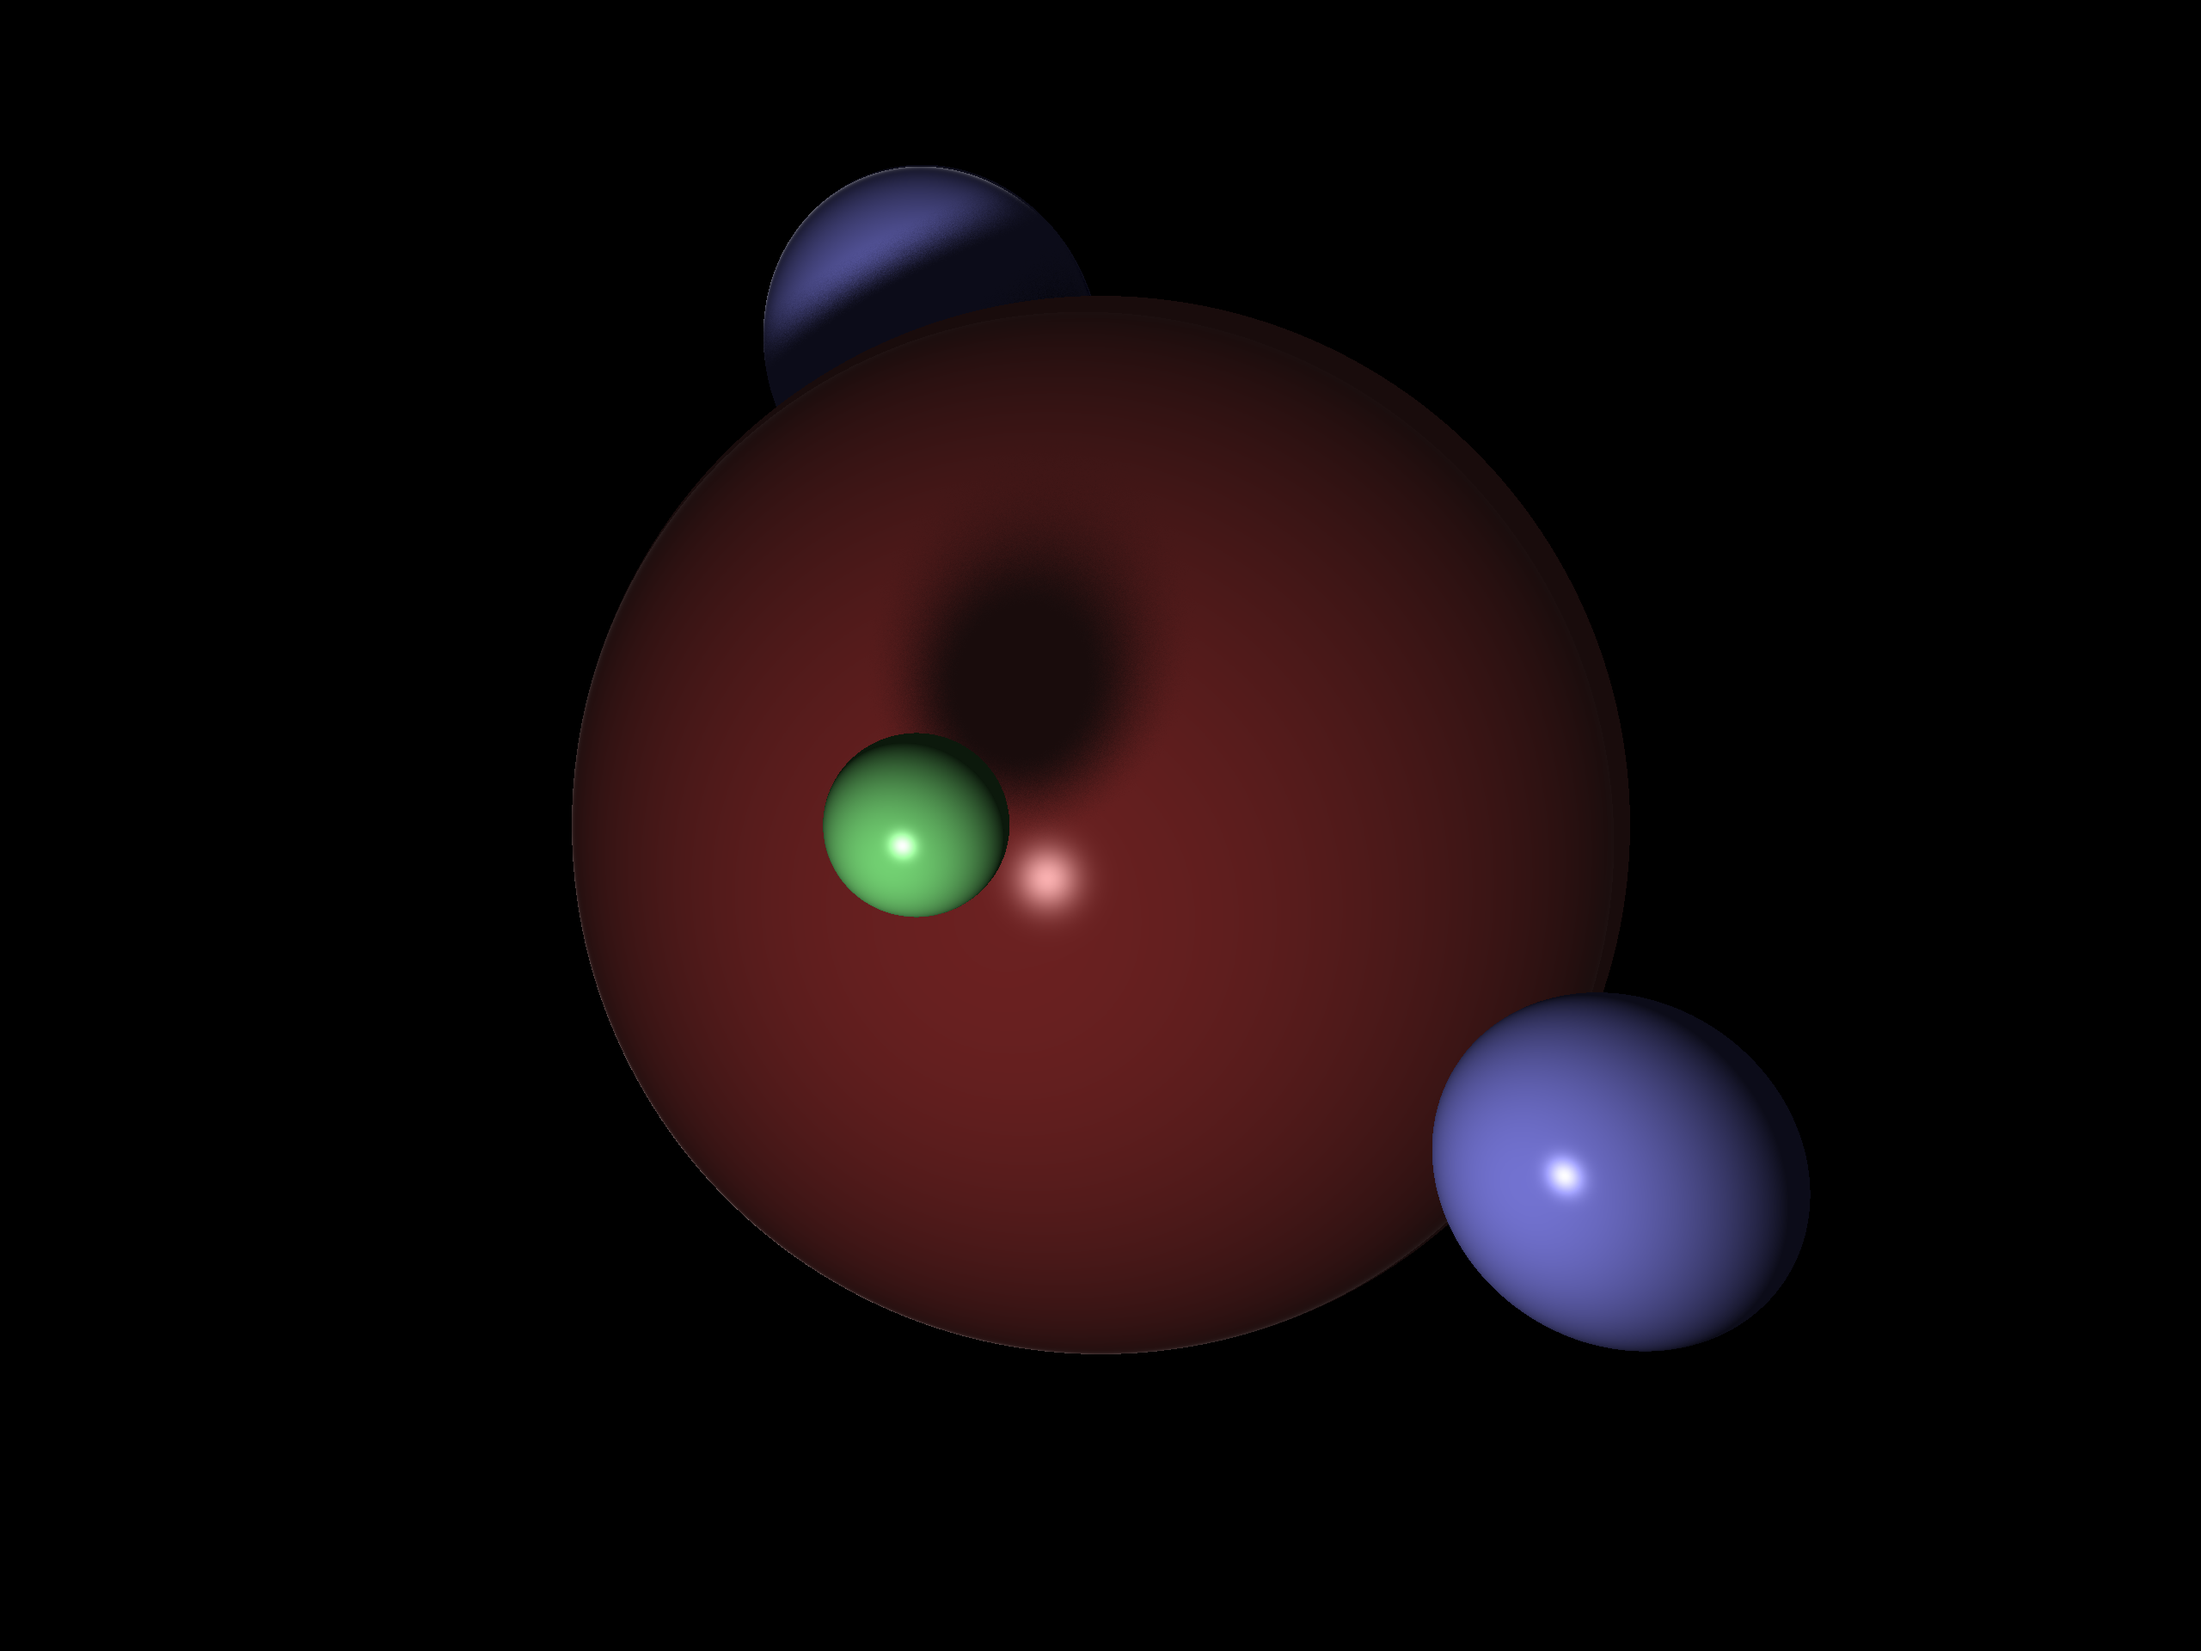
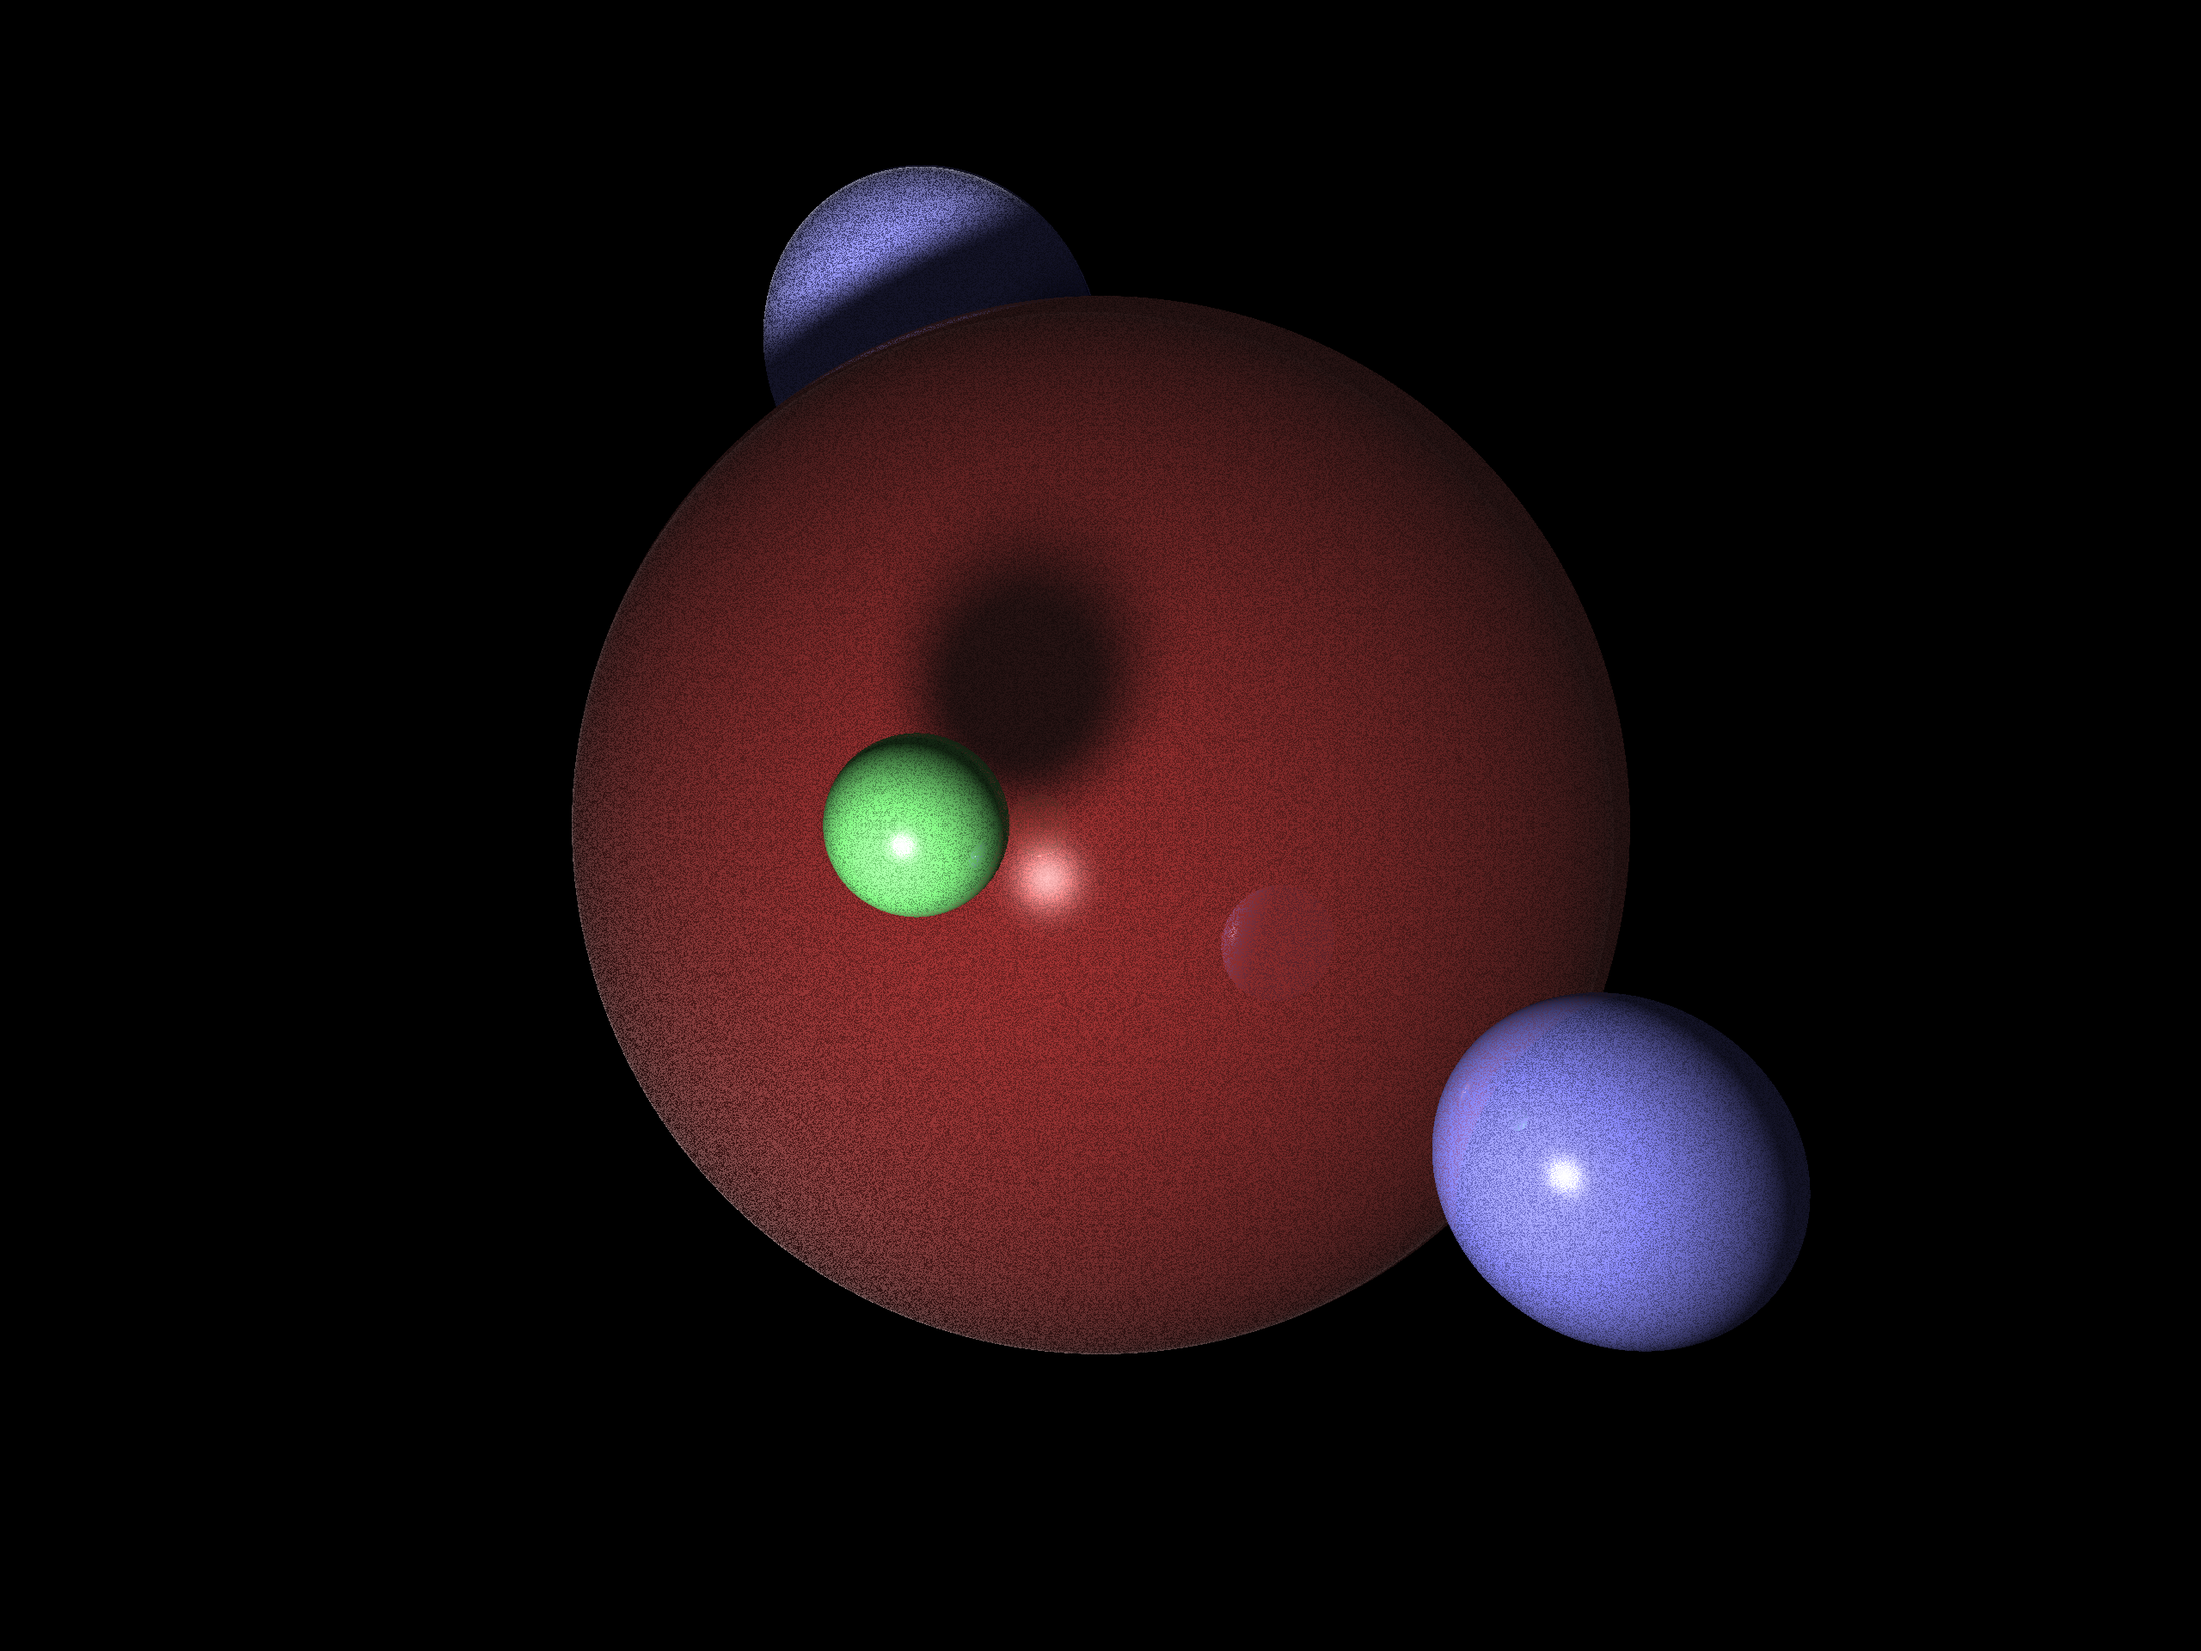
first iteration of reflections

Changed region(s): [[0.25, 0.2188, 0.8125, 0.8438], [0.3438, 0.0938, 0.4688, 0.2188]]

diff --git a/src/sphere.rs b/src/sphere.rs
@@ -43,11 +43,7 @@ impl Sphere {
     }
 
     /// Calculates the colour of the sphere from a given ray and scene.
-    pub fn lighting(&self, ray: &Ray, scene: &Scene, t: f64) -> Rgb<u8> {
-        // find the ray-sphere intersection point and the sphere's surface normal
-        let intersect_point = ray.origin + t * ray.direction;
-        let surface_normal = (intersect_point - self.centre).normalise();
-
+    pub fn lighting(&self, scene: &Scene, point: Vector, view: Vector, normal: Vector) -> Colour {
         // start off with ambient colour
         let mut colour = self.material.ambient_constant * scene.ambient_light;
 
@@ -56,7 +52,7 @@ impl Sphere {
             .lights
             .iter()
             .filter_map(|light| {
-                let light_vector = (light.centre - intersect_point).normalise();
+                let light_vector = (light.centre - point).normalise();
 
                 // number of rays cast from random points in the light which are blocked (shadowed)
                 let num_shadowed: usize = scene
@@ -66,8 +62,8 @@ impl Sphere {
                     .map(|sphere| {
                         (0..scene.num_light_points)
                             .filter(|_| {
-                                let shadow_vector = light.random_in_light() - intersect_point;
-                                let shadow_ray = Ray::new(intersect_point, shadow_vector);
+                                let shadow_vector = light.random_in_light() - point;
+                                let shadow_ray = Ray::new(point, shadow_vector);
 
                                 // check if any intersects occur along the shadow ray
                                 sphere
@@ -79,7 +75,7 @@ impl Sphere {
                     .sum();
 
                 // ignore lights that face the inside of the sphere or that are blocked
-                let direction = surface_normal * light_vector;
+                let direction = normal * light_vector;
                 if direction <= 0.0 {
                     None
                 } else {
@@ -88,8 +84,7 @@ impl Sphere {
                         self.material.diffuse_constant * light.diffuse_intensity * direction;
 
                     // calculate specular term
-                    let reflectance = (2.0 * direction * surface_normal - light_vector).normalise();
-                    let view = (scene.camera - intersect_point).normalise();
+                    let reflectance = (2.0 * direction * normal - light_vector).normalise();
 
                     let specular = self.material.specular_constant
                         * light.specular_intensity
@@ -105,7 +100,6 @@ impl Sphere {
             })
             .fold(Colour::new(0.0, 0.0, 0.0), |a, b| a + b);
 
-        // then clamp colours to [0, 1] and convert to u8
-        Rgb(colour.clamp().to_inner().map(|x| (x * 255.0) as u8))
+        colour
     }
 }

diff --git a/src/tracer.rs b/src/tracer.rs
@@ -1,6 +1,6 @@
 use image::Rgb;
 
-use crate::{ray::Ray, scene::Scene};
+use crate::{colour::Colour, ray::Ray, scene::Scene};
 
 pub struct Tracer<'a> {
     scene: &'a Scene,
@@ -18,6 +18,30 @@ impl<'a> Tracer<'a> {
         }
     }
 
+    fn recurse_colour(&self, ray: &Ray, recurses: usize) -> Colour {
+        if let Some((t, sphere)) = self.scene.sphere_intersect(*ray) {
+            let intersect_point = ray.origin + t * ray.direction;
+            let view = (ray.direction * -1.0).normalise();
+
+            let normal = (intersect_point - sphere.centre).normalise();
+
+            let colour = sphere.lighting(self.scene, intersect_point, view, normal);
+
+            if recurses < self.scene.recursion_depth_limit {
+                let reflectance_vector = normal * (normal * view) * 2.0 - view;
+
+                let reflected_colour = self
+                    .recurse_colour(&Ray::new(intersect_point, reflectance_vector), recurses + 1);
+
+                colour + (reflected_colour * sphere.material.reflectiveness)
+            } else {
+                colour
+            }
+        } else {
+            Colour::new(0.0, 0.0, 0.0)
+        }
+    }
+
     /// Finds the colour at a given pixel by casting a ray and checking intersections with the scene
     pub fn colour_at_pixel(&self, x: u32, y: u32) -> Rgb<u8> {
         // percentage across the width and height of canvas
@@ -32,13 +56,10 @@ impl<'a> Tracer<'a> {
         // construct a ray pointing towards the point from the camera, and calculate green/red values pased on ray direction
         let ray = Ray::towards_camera(point, self.scene.camera);
 
-        // figure out if ray intersects with any spheres
-        let sphere_intersect = self.scene.sphere_intersect(ray);
-
         // if intersect occurs, use calculated sphere colour - otherwise black
-        match sphere_intersect {
-            Some((t, sphere)) => sphere.lighting(&ray, self.scene, t),
-            None => Rgb([0, 0, 0]),
-        }
+        let colour = self.recurse_colour(&ray, 0);
+
+        // then clamp colours to [0, 1] and convert to u8
+        Rgb(colour.clamp().to_inner().map(|x| (x * 255.0) as u8))
     }
 }

diff --git a/src/material.rs b/src/material.rs
@@ -7,5 +7,6 @@ pub struct Material {
     pub ambient_constant: Colour,
     pub diffuse_constant: Colour,
     pub specular_constant: Colour,
+    pub reflectiveness: Colour,
     pub shininess: f64,
 }

diff --git a/src/scene.rs b/src/scene.rs
@@ -19,6 +19,8 @@ pub struct Scene {
     pub num_light_points: usize,
     pub width: u32,
     pub height: u32,
+
+    pub recursion_depth_limit: usize,
 }
 
 impl Scene {
